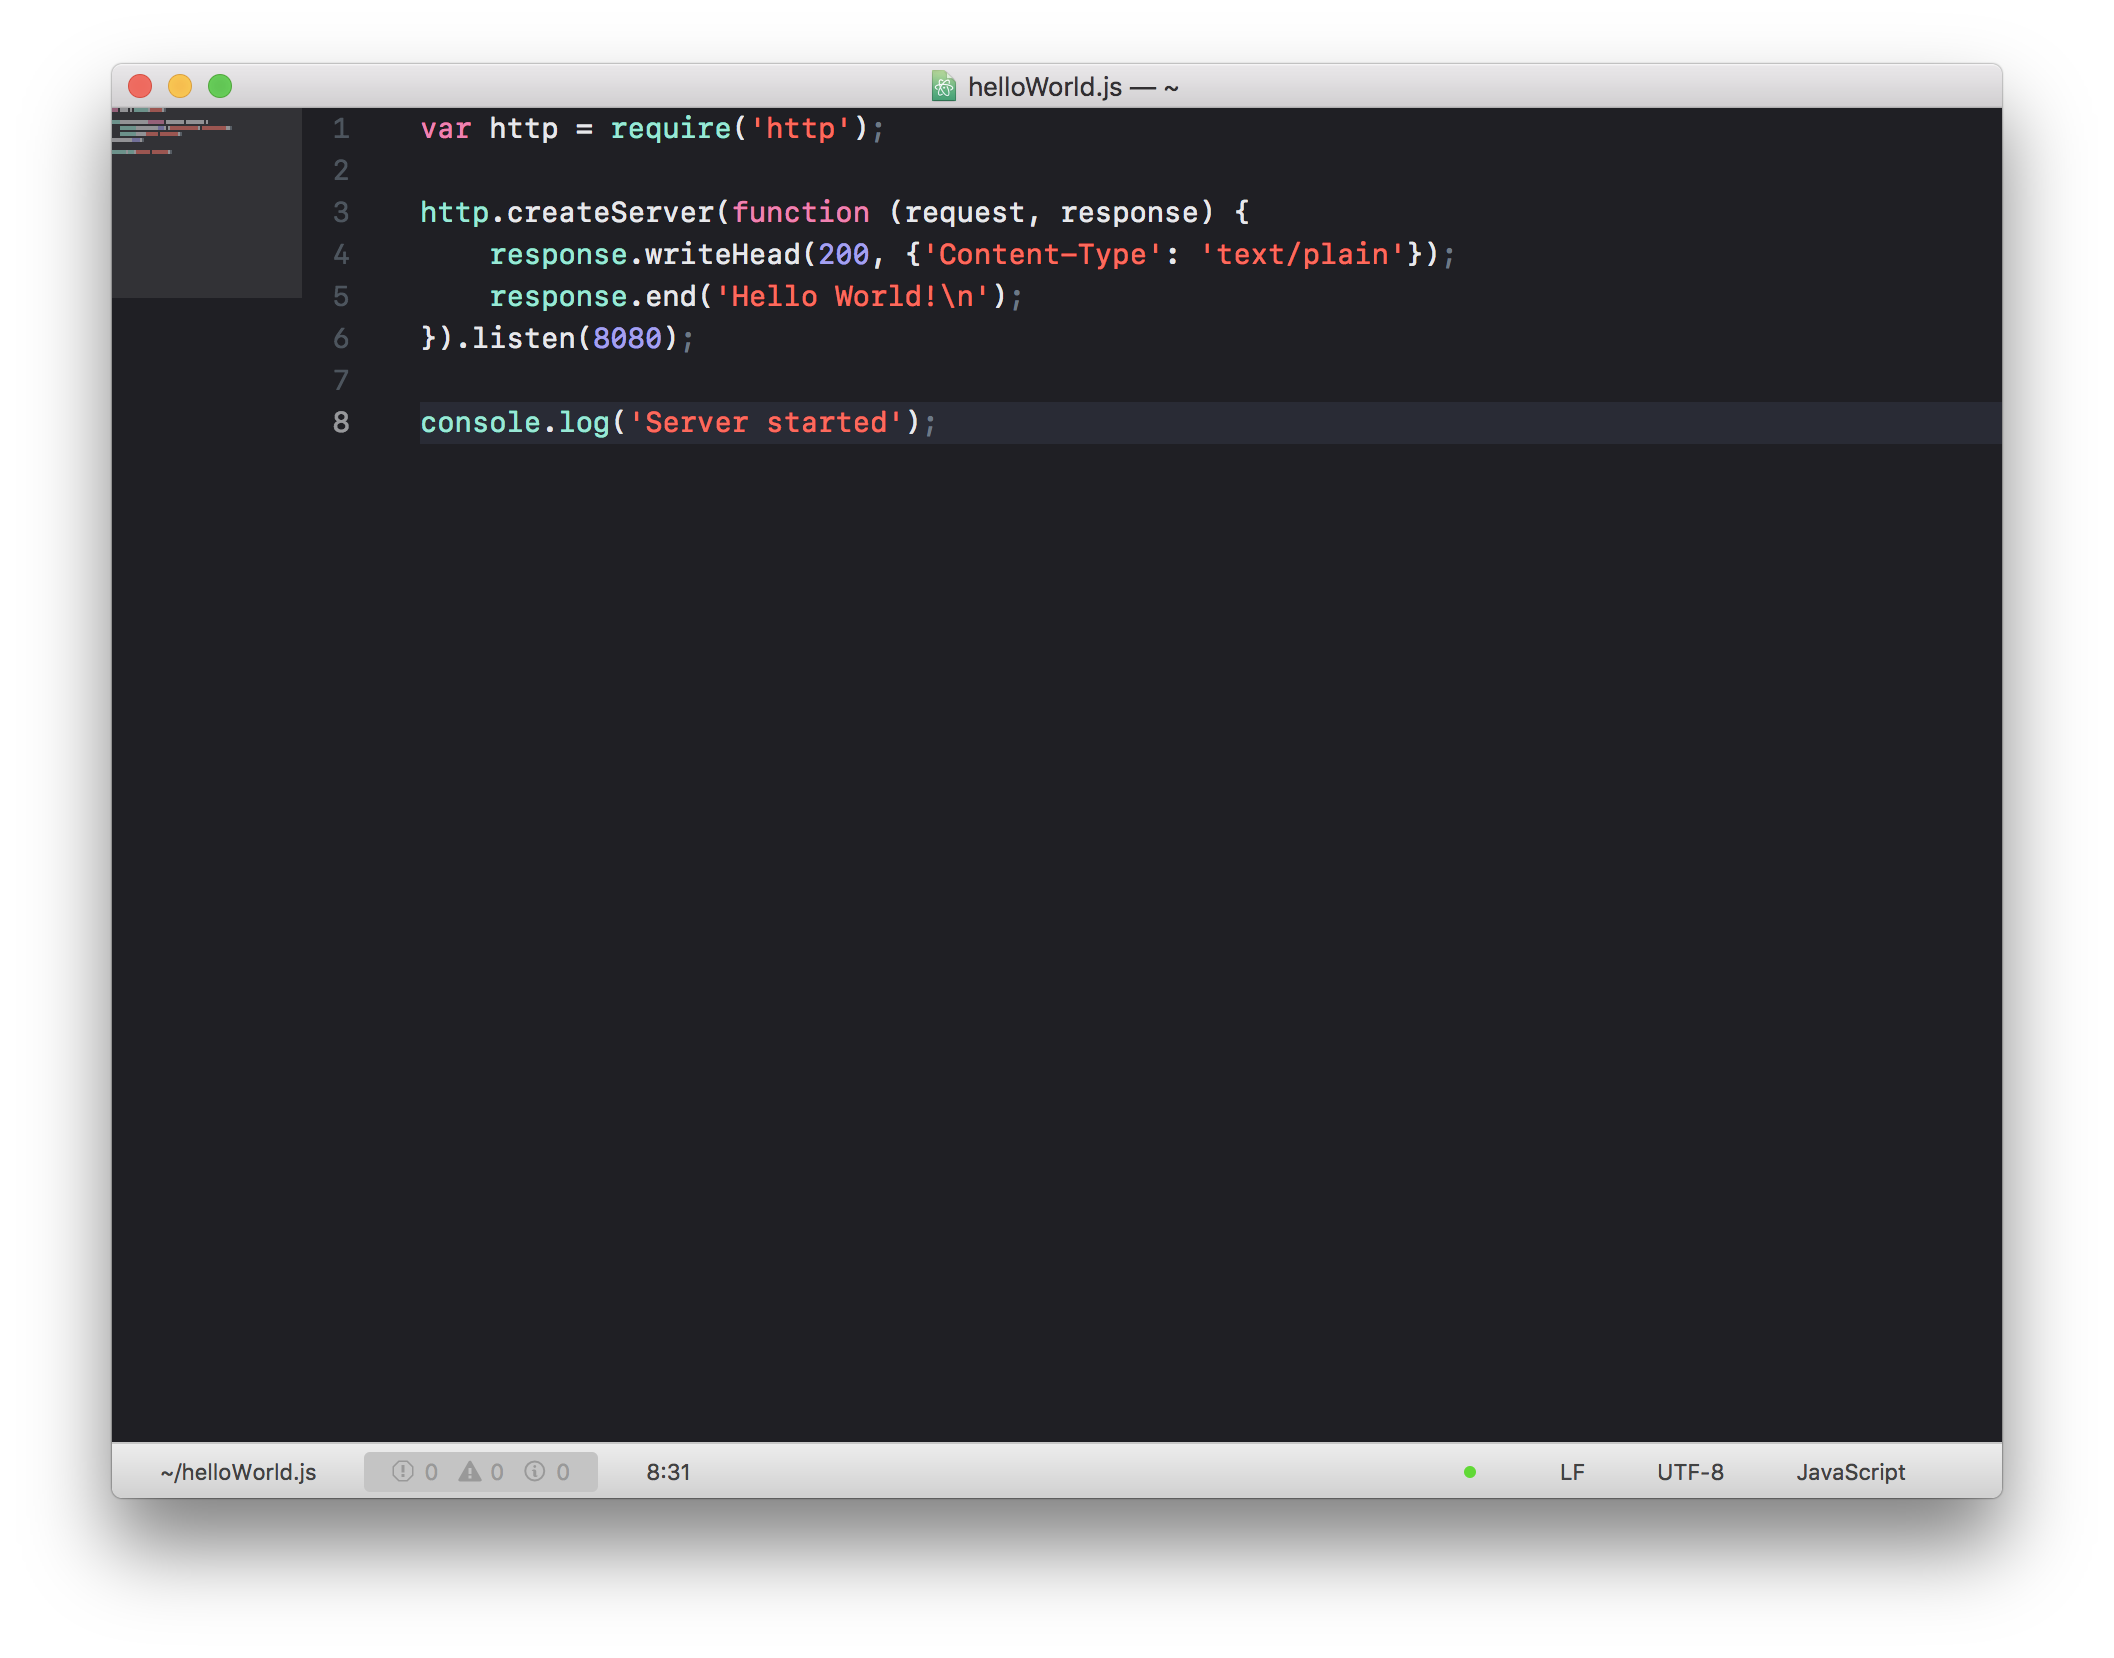
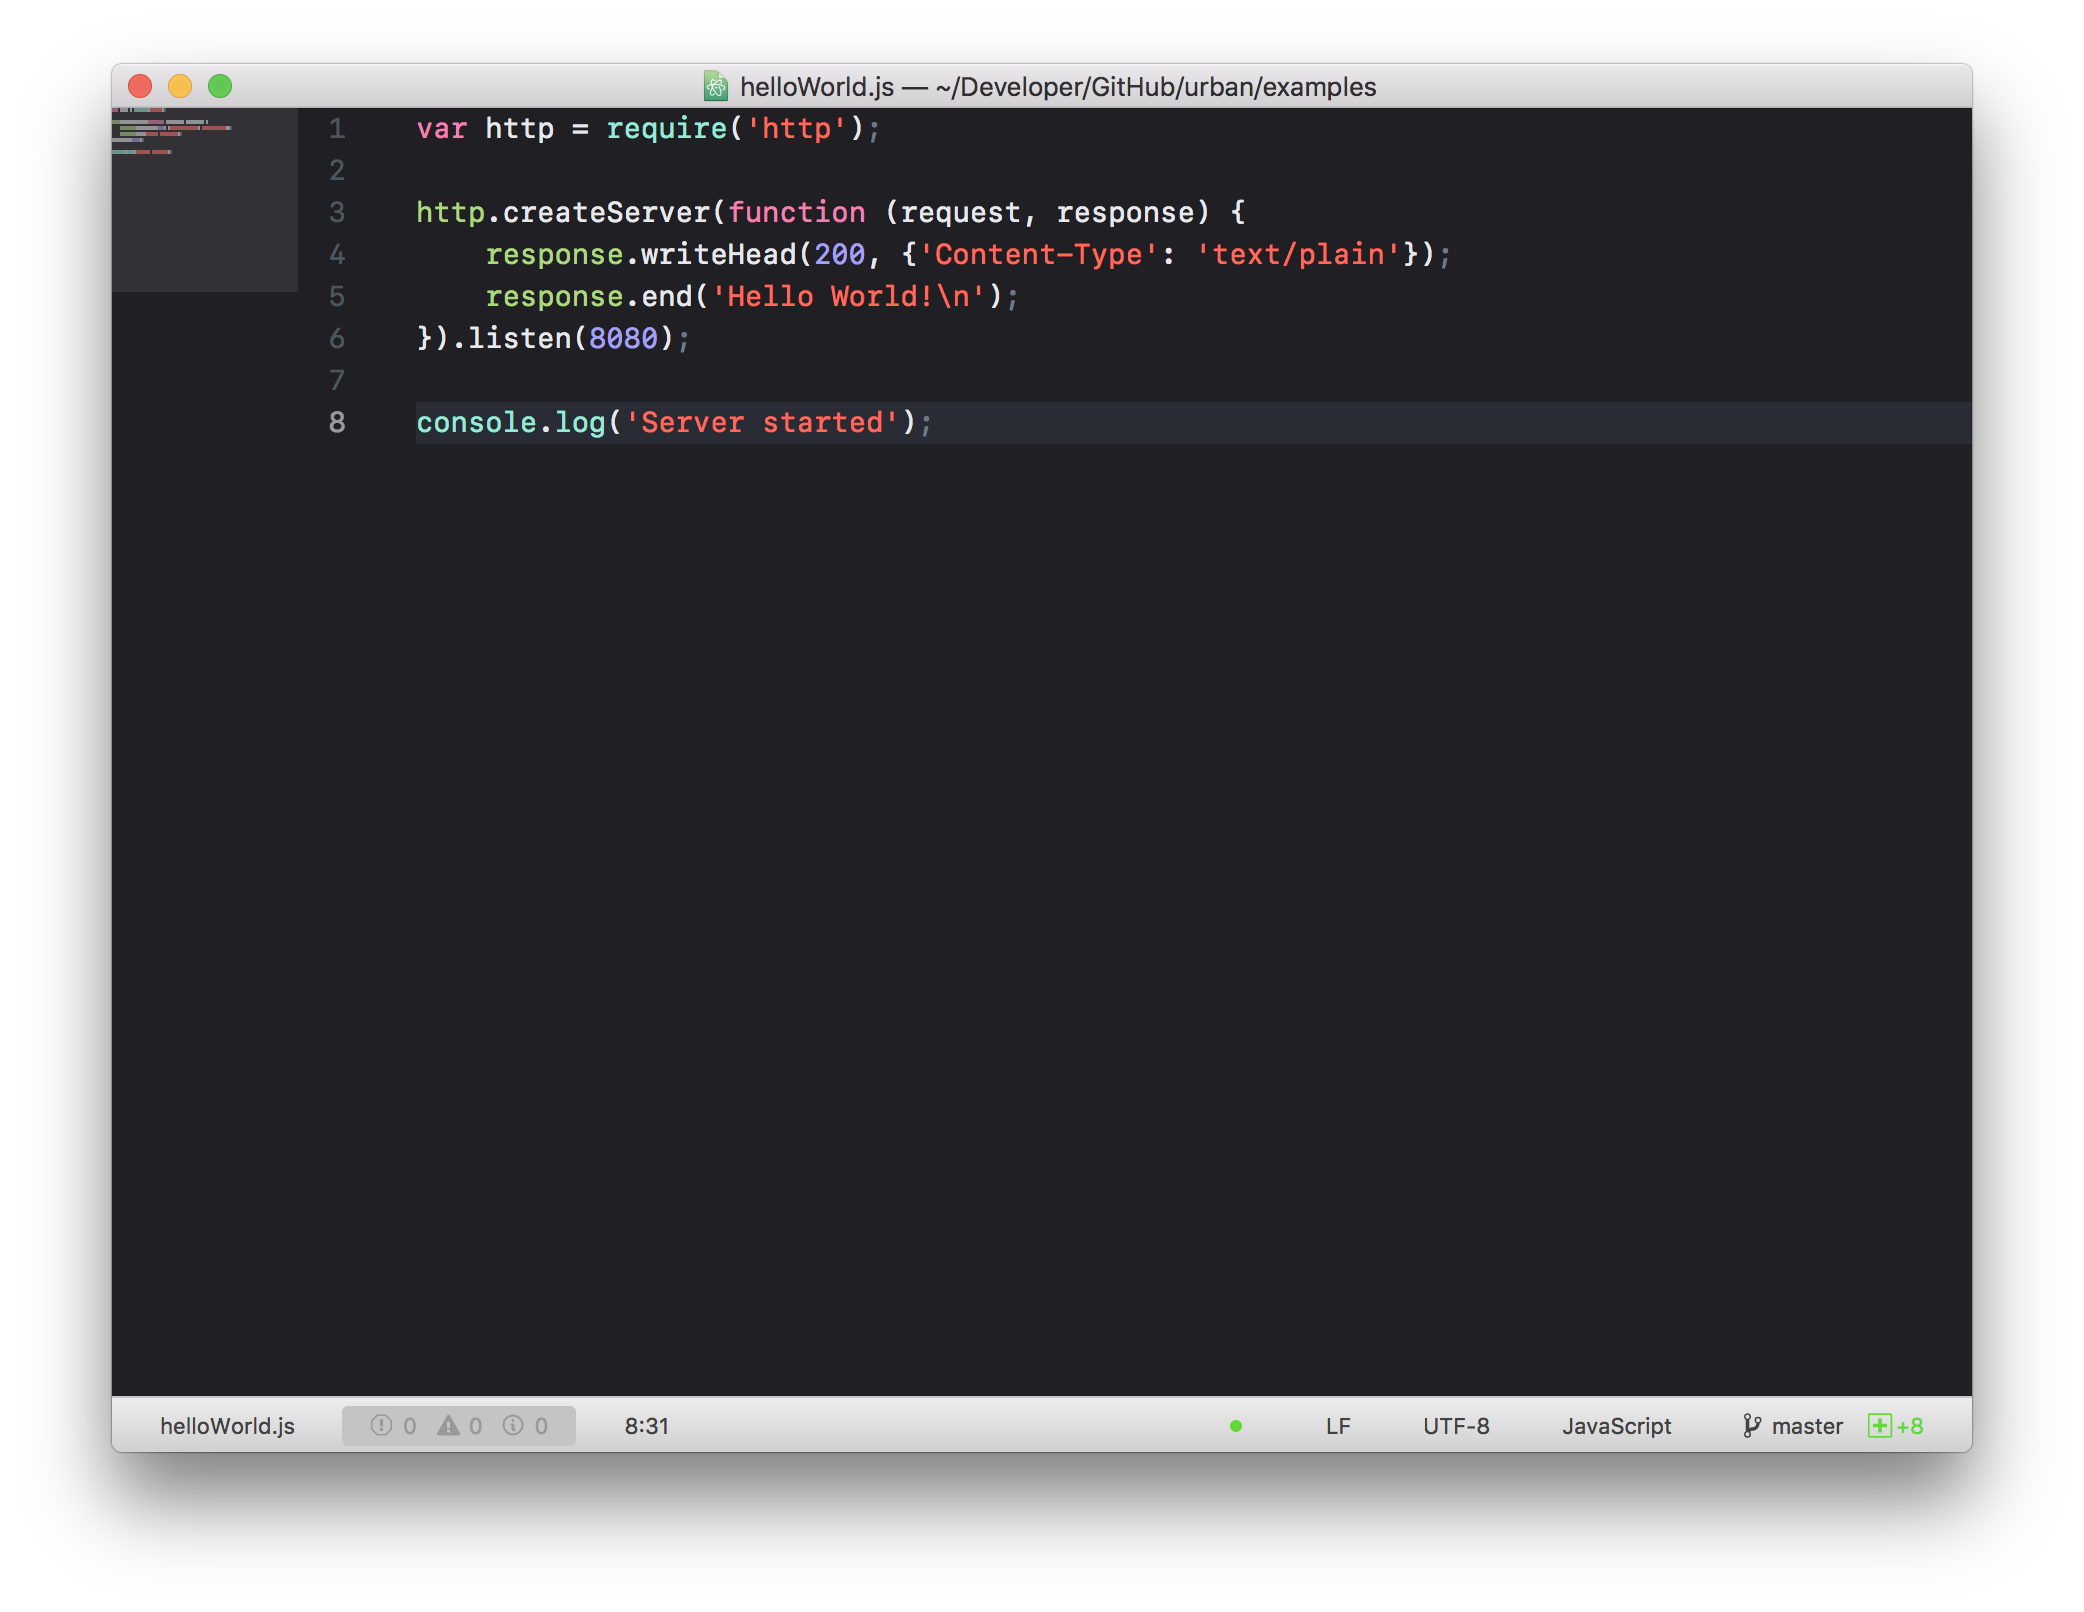
Minor color improvements

diff --git a/examples/helloWorld.js b/examples/helloWorld.js
@@ -1,0 +1,8 @@
+var http = require('http');
+
+http.createServer(function (request, response) {
+    response.writeHead(200, {'Content-Type': 'text/plain'});
+    response.end('Hello World!\n');
+}).listen(8080);
+
+console.log('Server started');

diff --git a/examples/HelloWorld/.idea/description.html b/examples/HelloWorld/.idea/description.html
@@ -1,0 +1,1 @@
+<html>Simple <b>Java</b> application that includes a class with <code>main()</code> method</html>

diff --git a/examples/HelloWorld/src/at/davidwalter/Main.java b/examples/HelloWorld/src/at/davidwalter/Main.java
@@ -1,0 +1,24 @@
+//
+// HelloWorld.java
+// HelloWorld
+//
+
+package at.davidwalter;
+
+public class Main {
+
+    private String message;
+
+    Main(String message) {
+        this.message = message;
+    }
+
+    public void print() {
+        System.out.println(this.message);
+    }
+
+    public static void main(String[] args) {
+        Main main = new Main("Hello World!");
+        main.print();
+    }
+}
